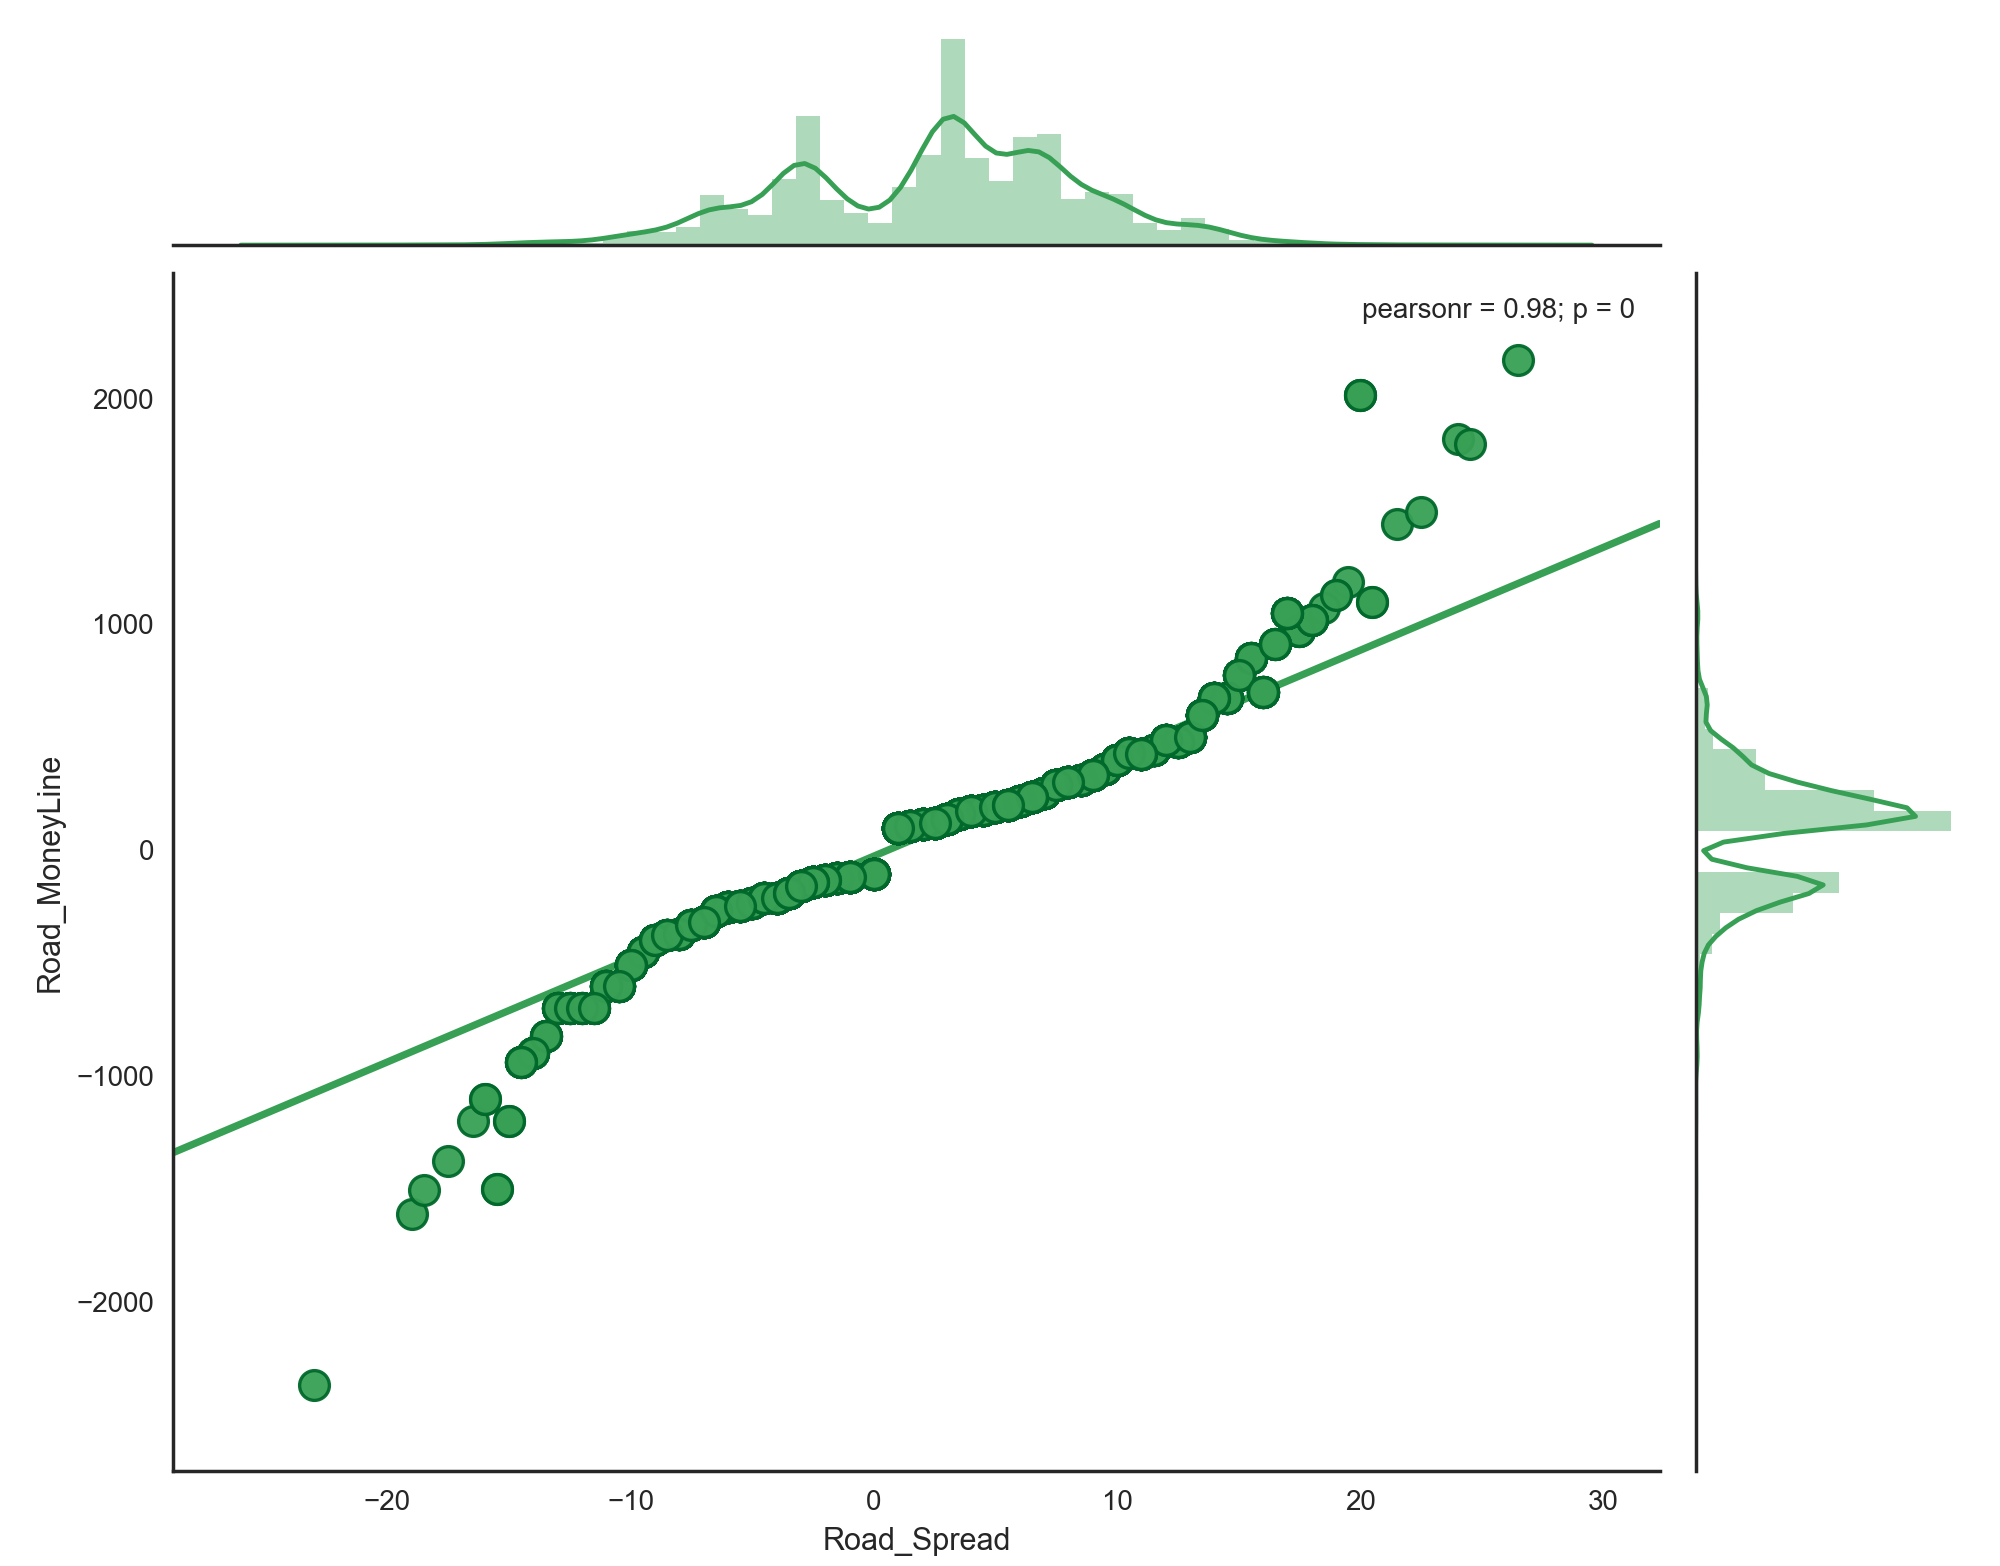
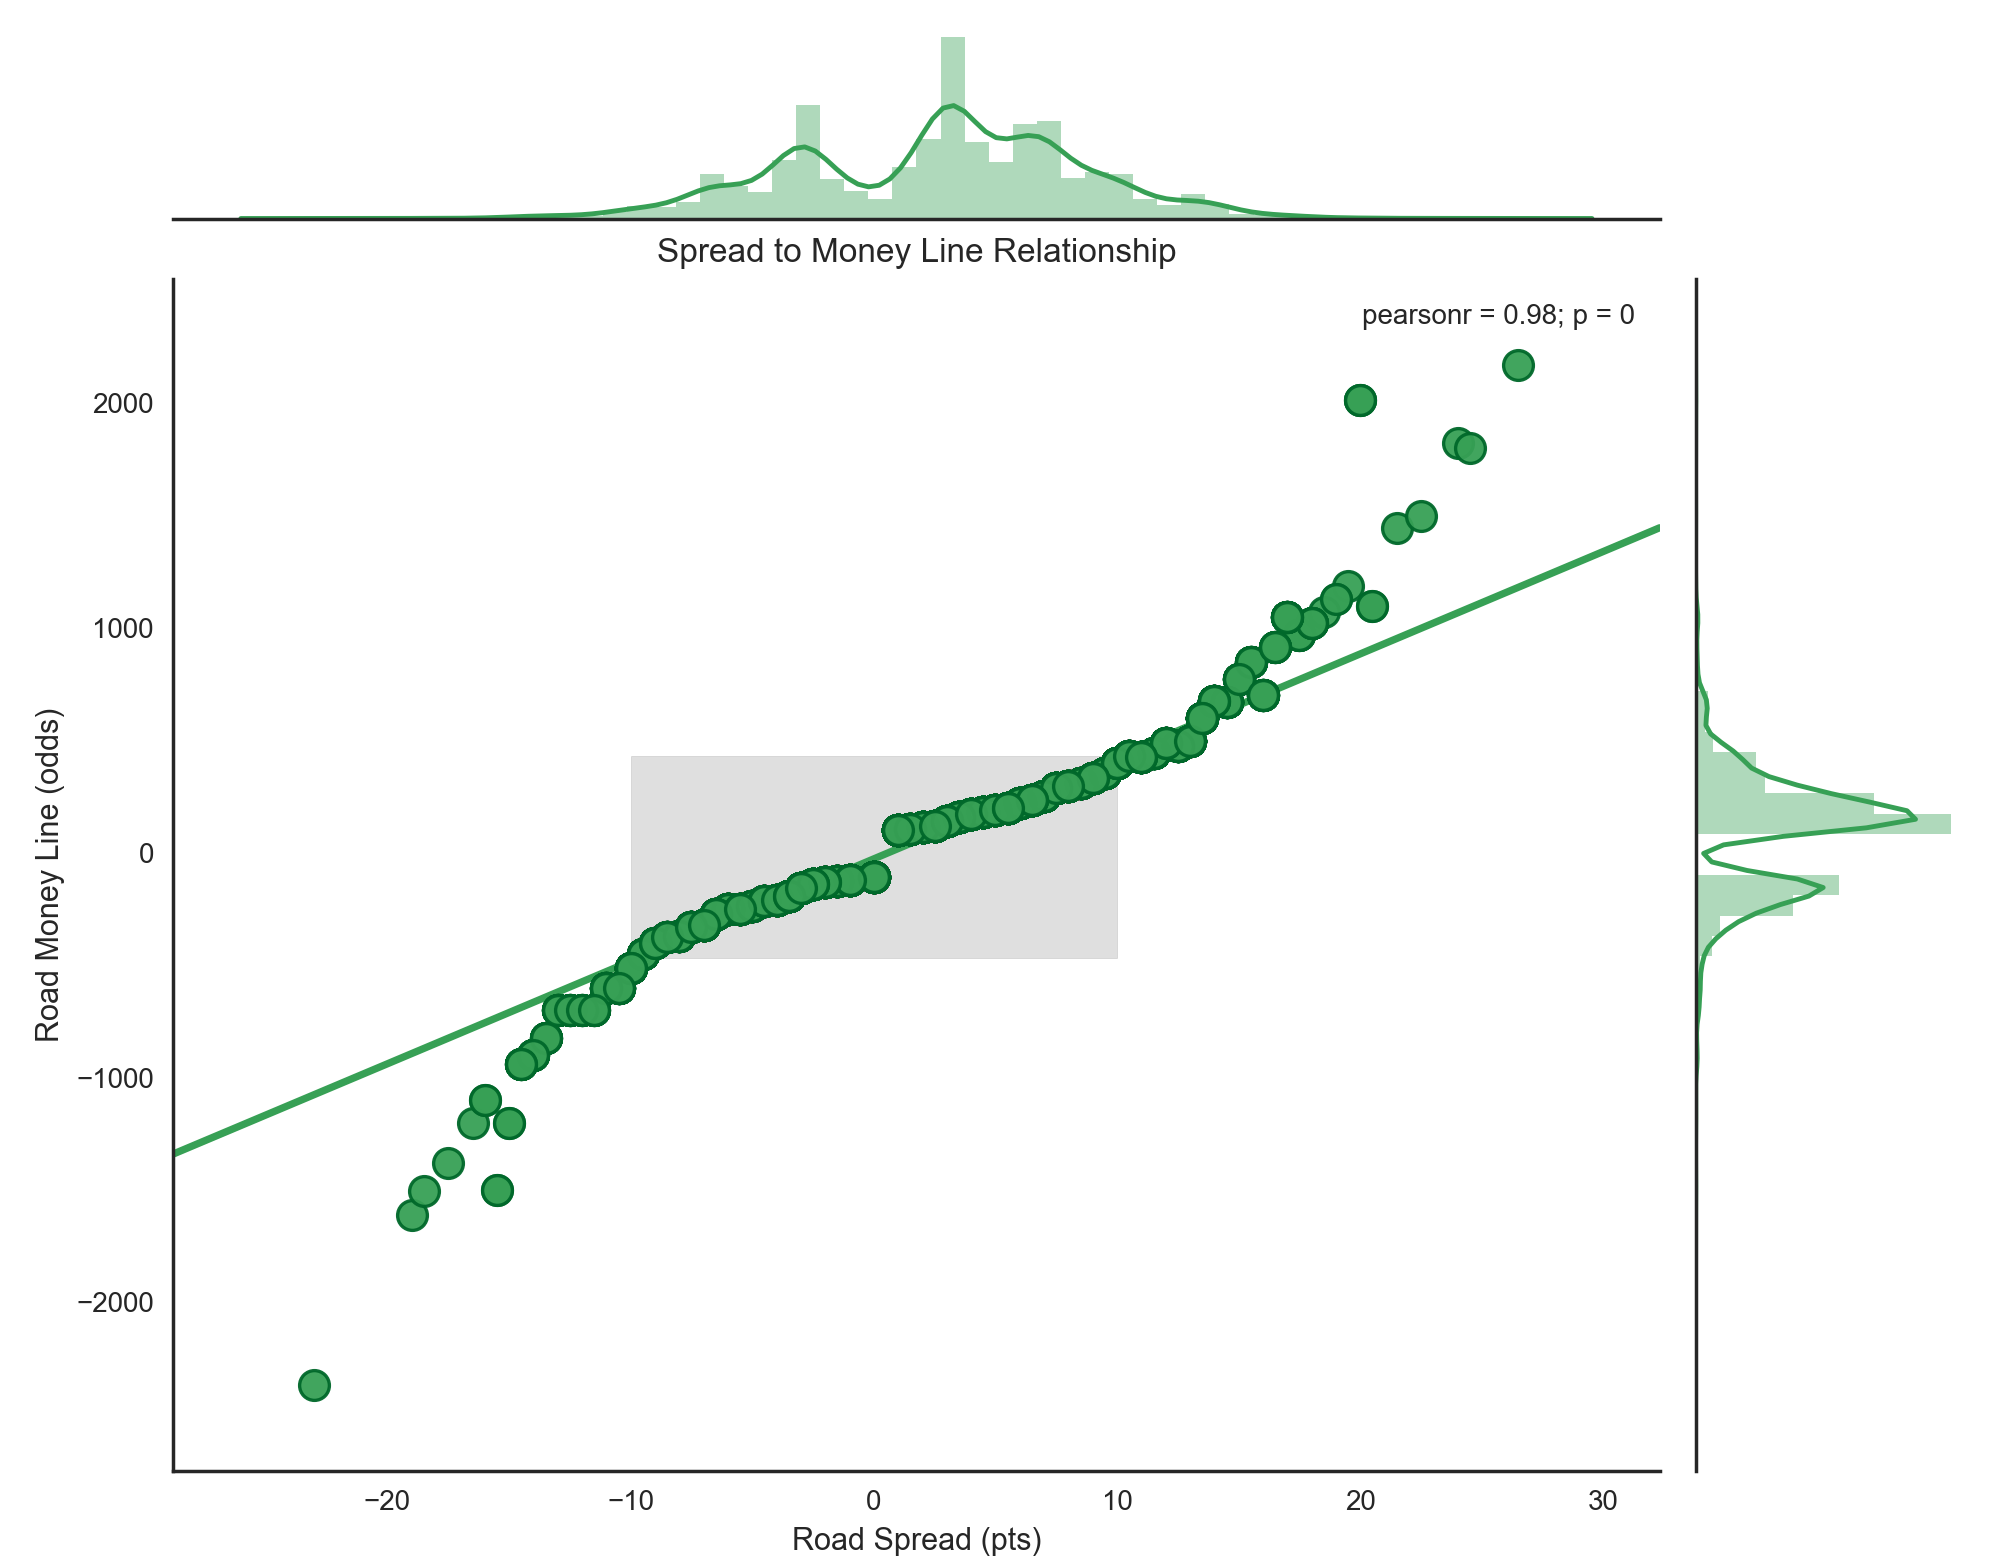
update all

diff --git a/README.md b/README.md
@@ -501,15 +501,16 @@ While the relationship between an increased number of dome games and the increas
 
 ###### Passing vs Rushing Offense Over Time
 
-<img src="images/combined_pass_rush_yard_rolling_avg.png" align="middle" alt="Passing vs. Rushing Yard Trends over time" >
+<img src="images/combined_pass_rush_att_rolling_avg.png" align="middle" alt="Passing vs. Rushing Attempts Trend over time" >
 
-
-
-<sub>__Figures 4193:__ Five-year rolling averages of Passing offense (left), which has grown at an alarming rate over the last decade-plus, and rushing offense (right), which dropped precipitously two decades ago and has somewhat stabilized since.</sub>
+<sub>__Figures 4193:__ Five-year rolling averages of Passing attempts (left), which has grown at an alarming rate over the last decade-plus, and rushing attempts (right), which dropped precipitously two decades ago and has somewhat stabilized since, 1950-2016.</sub>
 
 <BR>
 
-These two rolling average plots of passing offense (left) and rushing offense (right) since 1978 show starkly different trends in league-wide offensive approach.  In 1978 and 1979 major rule changes were implemented that made pass defense more difficult, causing the first initial rise in passing offense.  To my surprise, it leveled off and remained consistent for the remainder of the 1980s and 1990s.  Beginning in 2005, however, the league began to experience its own Cambrian explosion of passing attacks, growing each year for a decade straight.  Conversely, rushing offense plummeted for fifteen consecutive years before coming to a roughly stable resting point.  
+
+<BR>
+
+These two rolling average plots of passing offense (left) and rushing offense (right) since 1950 show starkly different trends in league-wide offensive approach.  During the 1960s the high-flying AFL seems to have bolstered passing game, but was promptly suppressed once the leagues merged in 1970.  In 1978 and 1979 major rule changes were implemented that made pass defense more difficult, causing the first initial rise in passing offense.  To my surprise, it leveled off and remained consistent for the remainder of the 1980s and 1990s.  Beginning in 2005, however, the league began to experience its own Cambrian explosion of passing attacks, growing each year for a decade straight.  Conversely, rushing offense plummeted for fifteen consecutive years before coming to a roughly stable resting point.   
 
 As interesting as the topic of how the league changes schematically as a whole over time is, the point of this investigation was to see if we could explain the dramatic rise in Over/Unders.  I think its safe to say we can do so to a large degree with passing offense alone, as we predicted above.  Take a minute to compare [Figure 411](#over---under-analysis) and [Figure 4193](#passing-vs-rushing-offense-over-time).  The sharp rise in passing offense parallels that in the Over/Under, while rushing offense seems to have little to no correlation.  When comparing multiple variables at a time, a scatter matrix can help illuminate trends between all combinations of the targets.
 
@@ -534,10 +535,9 @@ As noted above in the [NFL Betting Primer](#nfl-betting-primer) section, the mon
 ###### Spread and Money Line Linear Relationship
 <img src="images/spread_vs_moneyline.png" align="middle" alt="spread_vs_moneyline" width="800">
 
-<sub>__Figure 4443:__ The relationship between the spread and moneyline looks to be perfectly described by a 3rd degree polynomial (not pictured), but a closer look at the _density_ of the spread values shows that over 94% are concentrated between -10 and +10.  This range comprises the center of this plot, and is easily desribed by a linear regression.</sub>
+<sub>__Figure 4443:__ The relationship between the spread and moneyline looks to be perfectly described by a 3rd degree polynomial (not pictured), but a closer look at the _density_ of the spread values, shows that over 94.51% are concentrated between -10 and +10.  This range comprises the center of this plot, which is highlighted with a grey box, and is easily described by a linear regression.</sub>
 
 <BR>
-
 
 <img src="images/spread_vs_moneyline_rolling_avg.png" align="right" alt="spread_vs_moneyline_rolling_avg" width="600">
 
@@ -651,22 +651,40 @@ Pass Att. / Gm                     | 5    | 0.92%
 
 <BR>
 
+###### Rushing and Winning
 Other features that help predict whether a team will win or not read like a list of the usual suspects: superiority in advanced metrics like [DVOA](#advanced-metrics) and [EPA](#advanced-metrics), rushing stats per game, penalties and penalty yards per game, and 3rd and 4th down efficiency.  _Time of possession_ clocks in at \#29.  _Time of possession_ and the various _rushing_ stats (five total in the top 40 but none before tier 4) offer a textbook case of the "chicken and the egg" conundrum, however.  At first glance it is tempting to simply say "teams that have the ball more and have more rushing attempts per game win more."  Statistically, yes, our model says that is true.  
 
-But we must think about it one level deeper.  Doing so, we realize that teams which are leading _overwhelmingly_ run the ball more than teams that are trailing (Chase Stuart’s easily digestible “[game scripts](http://www.footballperspective.com/introducing-game-scripts-part-i/)” metric does a good job of capturing this).  As a result, teams that are trailing face far more rushes and subsequently give up more yards.  So, in a way the model is likely picking up that teams that allow more rushing yards than others are frequently trailing... and when you’re frequently trailing you are going to lose more often than win.  The fallacy (known in the stats community as the [“establish the run”](http://www.footballoutsiders.com/stat-analysis/2003/establishment-clause) fallacy, popularized by Aaron Schatz at Football Outsiders back in 2003 <sup>[__7__](#fn7)</sup>) that so many jabbering heads on TV espouse of “run the ball to win!” is actually the inverse of what happens, and I suspect this is what the model also detects.  It’s the teams that are already winning which choose to run the ball, not vice versa.
+But we must think about it one level deeper.  Doing so, we realize that teams which are leading _overwhelmingly_ run the ball more than teams that are trailing (Chase Stuart’s easily digestible “[game scripts](http://www.footballperspective.com/introducing-game-scripts-part-i/)” metric does a good job of capturing this).  As a result, teams that are trailing face far more rushes and subsequently give up more yards.  So, in a way the model is likely picking up that teams that allow more rushing yards than others are frequently trailing... and when you’re frequently trailing you are going to lose more often than win.  The fallacy (known in the stats community as the [“establish the run”](http://www.footballoutsiders.com/stat-analysis/2003/establishment-clause) fallacy, popularized by Aaron Schatz at Football Outsiders back in 2003 <sup>[__7__](#fn7)</sup>) that so many jabbering heads on TV espouse of “run the ball to win!” is actually the inverse of what happens, and I suspect this is what the model also detects.  It’s the teams that are already winning which choose to run the ball, not vice versa.  [Figures 666](#time-of-possession-and-rushing-attempts) and [667](#)
 
+###### Time of Possession and Rushing Attempts
 <img src="images/top_v_rush_att.png" align="middle" alt="Time of Possession Correlation to Rush Attempts">
 
-<sub>__Figure 666:__ The correlation of increased time of possession with increased rushing attempts.</sub>
+<sub>__Figure 666:__ The correlation of increased time of possession with increased rushing attempts, 1978-2016.</sub>
 
 <BR>
 
+
+
+###### Passing and Rushing Attempts Correlation to Margin of Victory
+<img src="images/pass_v_rush_margin_vic.png" align="middle" alt="Passing and Rushing Correlation to Margin of Victory">
+
+<sub>__Figure 667:__ The relationship between average number of passing attempts and rushing attempts with average margin of victory, 1978-2016.</sub>
+
+<BR>
+
+
+**talk about rushing while winning via charts**
+
+
+###### Turnovers
 Turnovers appear in tier 5 with _difference in average turnovers caused per game_.  This is a tough one.  We know that in any game turnovers are massively important.  They directly rob one team of a possession and gift one to the other (usually with advantageous field position).  This model doesn’t see a team's average turnover rate as being supremely __predictive__ because they are in some degree unpredictable.  Team A may be averaging 2.2 turnovers per game and Team B may average 1.8, but they might fluctuate a good deal between games (high).  These differences don’t appear to be extremely predictive (about as predictive as the difference in 1st downs per team, penalties per team, or passing yards per team).  
 
 I broke the category down into fumbles, fumbles lost, interceptions, and total turnovers, and the model identified "total turnovers" as the most important of the lot.  My personal conclusion is that the nature of turnovers is largely so random that they aren’t necessarily replicable per game.  Another way to think of it is that the other metrics, especially the advanced ones, do a good to great job of telling us about ‘true’ team strength.  Since a large element of turnovers is due to chance, they don’t do nearly as good a job about telling us about true team strength going into a game, and their lower predictive power reflects this.
 
-I was a bit surprised to see _hours of rest_ omitted from this list.  I expected differences in how much time players had to heal and coaches had to game plan to be more correlated with winning.  They don't appear until tier 6 (0.61%).  Similarly, _temperature_ also shows up in tier 6 (0.61%).  It’s about as important as how many penalty yards the defense averages per game, or how many sack yards the defense gets per game.  This is where knowing the model was targeting the home team matters — we expect home teams to be used to their weather more than the road team is.  Detroit going down to Tampa early in the season or Jacksonville going up to Buffalo in December... these things apparently really do matter.  
+###### Weather and Rest Time
+I was a bit surprised to see _hours of rest_ omitted from this list.  I expected differences in how much time players had to heal and coaches had to game plan to be more correlated with winning.  They don't appear until tier 6 (0.61%).  Similarly, _temperature_ also shows up in tier 6 (0.61%).  It’s about as important as how many penalty yards the defense averages per game, or how many sack yards the defense gets per game.  This is sensible as we expect home teams to be used to their weather more than the road team is.  Detroit going down to Tampa early in the season or Jacksonville going up to Buffalo in December... these climate adjustments apparently really do matter.  
 
+###### Weekday, Surface, and Stadium
 Some of the less important items are routinely the _day of the week_ the game is played on.  This makes sense since the day of the game is shared by both teams, so it is usually not a dividing feature.  However, we did see that hours of rest do matter, so teams that play on Sunday night then on Thursday reasonably have a disadvantage.  Another seemingly unimportant variable is the _surface_ and _stadium_.  Domes, retractable roofs, open stadiums, astroturf, sport turf, dessograss, field turf, natural grass... none of these variables have much impact at all compared to the actual team-centered and matchup-centered stats.
 
 The overwhelming importance of the spread is
